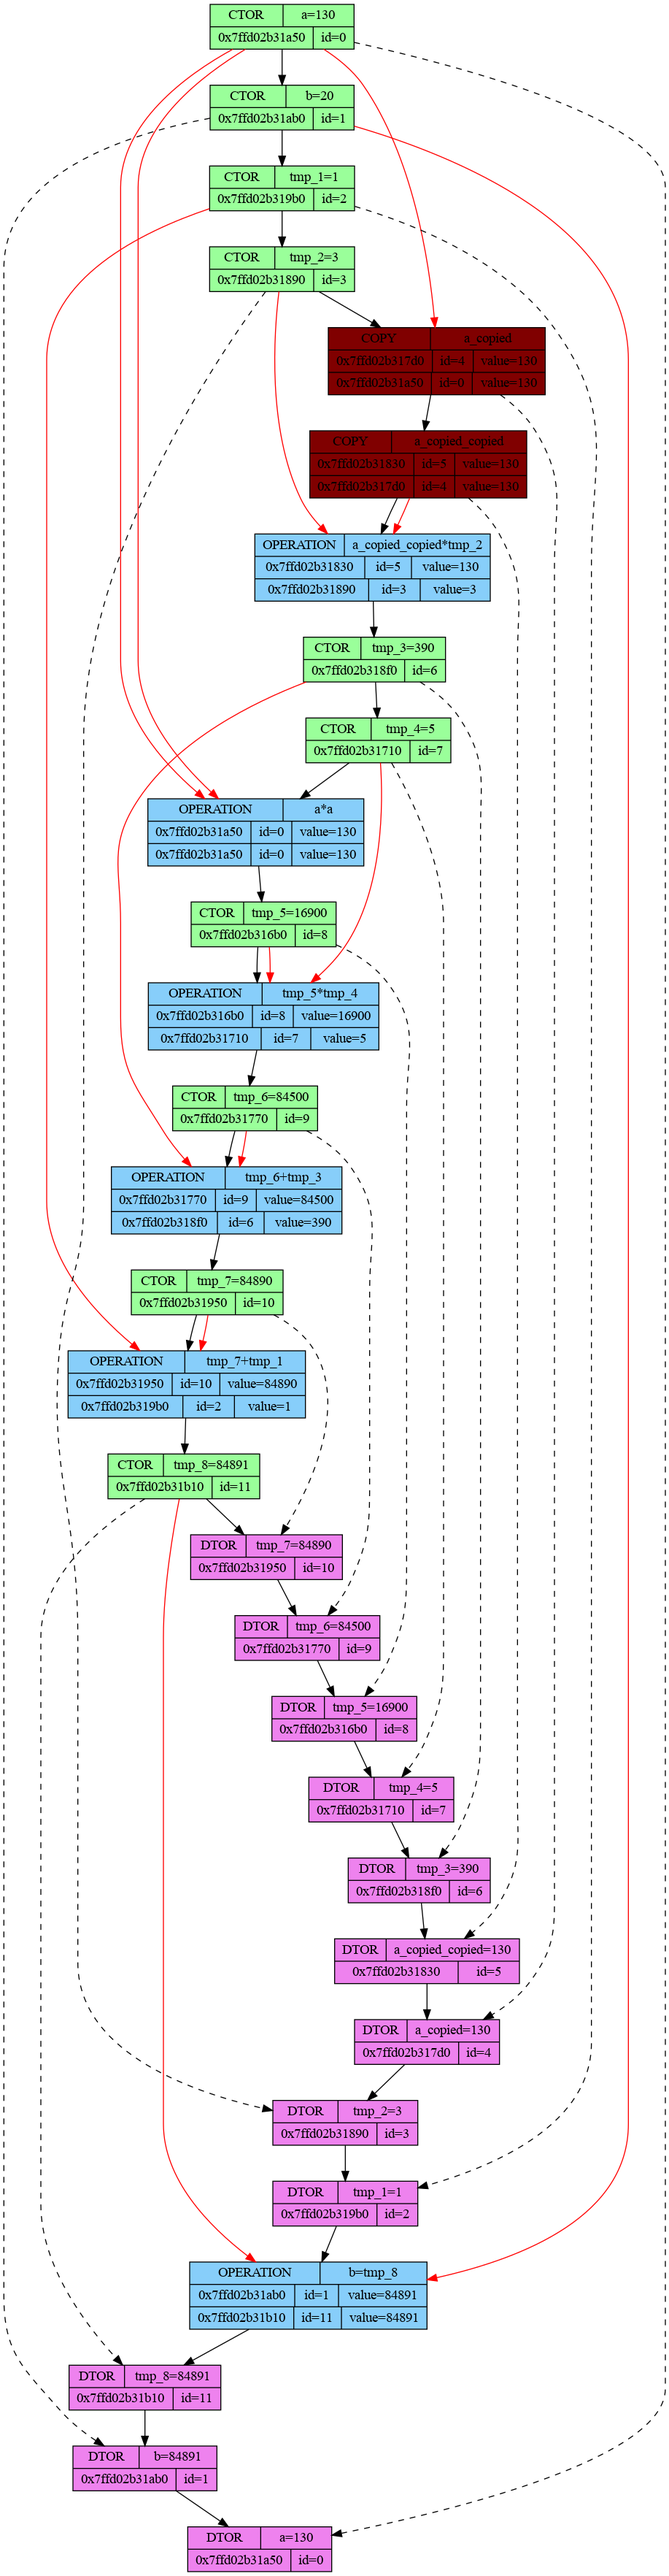
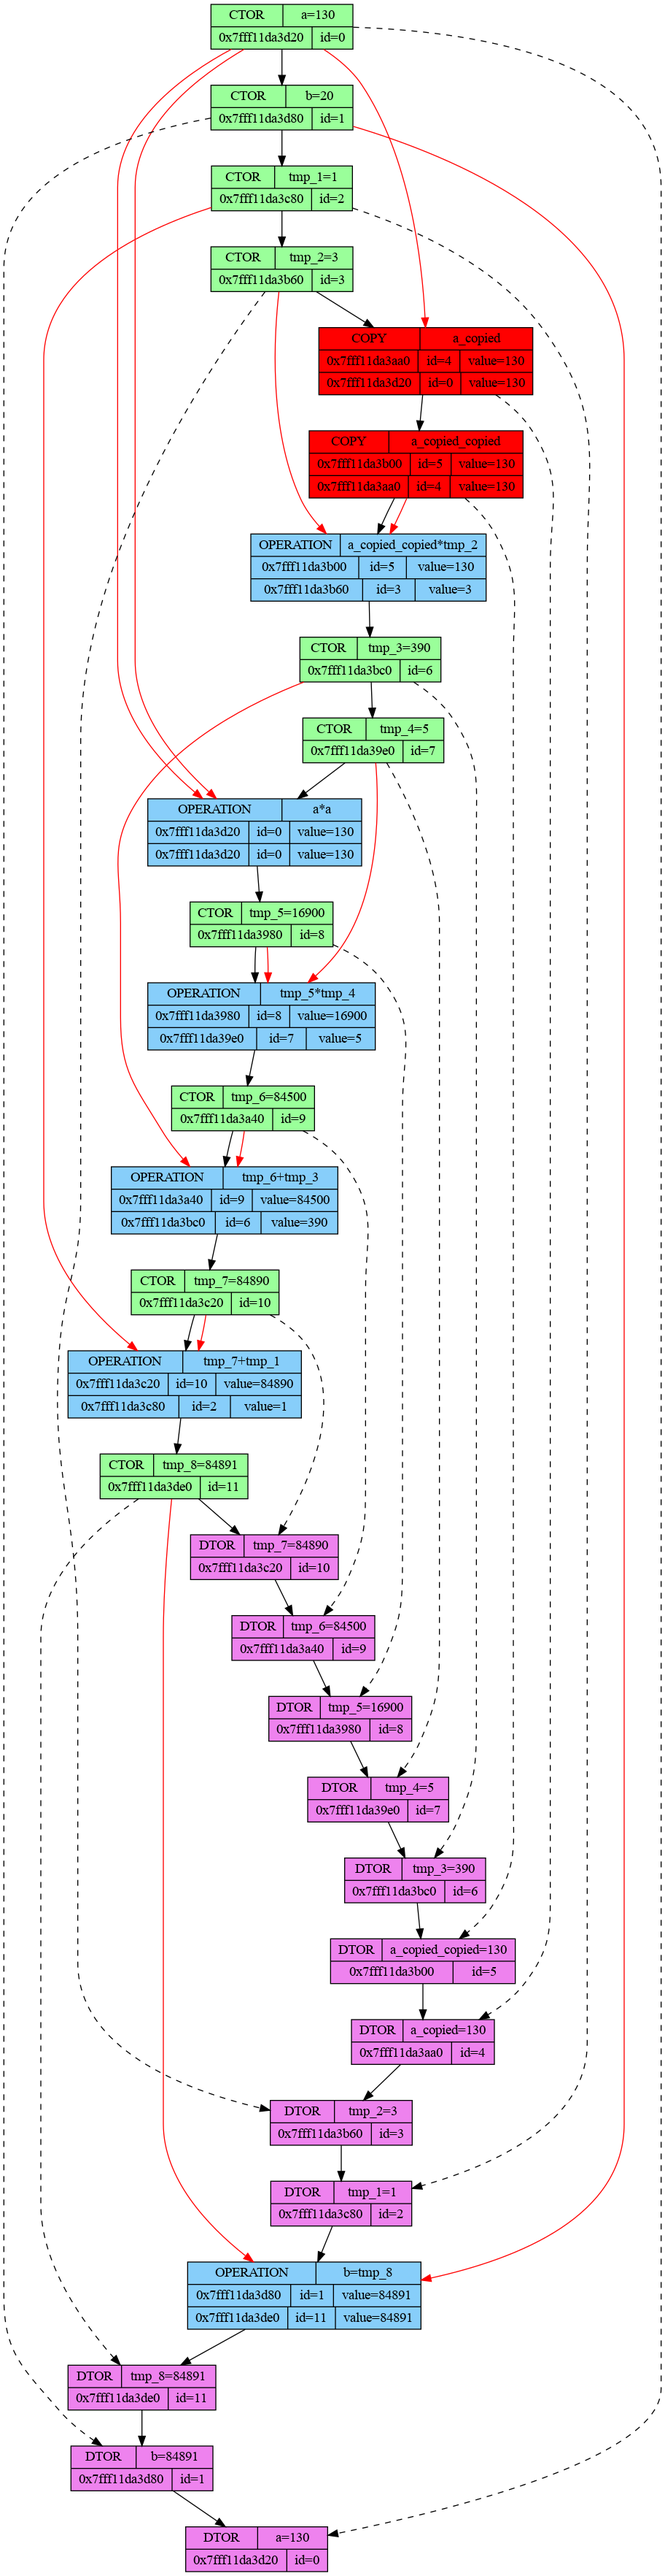
Updated pictures

diff --git a/Dumping_int/dump.html b/Dumping_int/dump.html
@@ -9,197 +9,197 @@ P {
 
 <p><font size="3" color="green">[Calling_trace] CTOR Int::Int(int, std::string)
 </font>
-	<font size="3" color="green">└──>[0x7ffd02b31a50]: id = 0, a=130
+	<font size="3" color="green">└──>[0x7fff11da3d20]: id = 0, a=130
 </font>
 <font size="3" color="green">
 </font>
 <font size="3" color="green">[Calling_trace] CTOR Int::Int(int, std::string)
 </font>
-	<font size="3" color="green">└──>[0x7ffd02b31ab0]: id = 1, b=20
+	<font size="3" color="green">└──>[0x7fff11da3d80]: id = 1, b=20
 </font>
 <font size="3" color="green">
 </font>
 <font size="3" color="green">[Calling_trace] CTOR Int::Int(int, std::string)
 </font>
-	<font size="3" color="green">└──>[0x7ffd02b319b0]: id = 2, tmp_1=1
+	<font size="3" color="green">└──>[0x7fff11da3c80]: id = 2, tmp_1=1
 </font>
 <font size="3" color="green">
 </font>
 <font size="3" color="green">[Calling_trace] CTOR Int::Int(int, std::string)
 </font>
-	<font size="3" color="green">└──>[0x7ffd02b31890]: id = 3, tmp_2=3
+	<font size="3" color="green">└──>[0x7fff11da3b60]: id = 3, tmp_2=3
 </font>
 <font size="3" color="green">
 </font>
 <font size="3" color="red">[Calling_trace] COPY Int::Int(const Int&)
 </font>
-	<font size="3" color="red">└──>[0x7ffd02b317d0]: left  id = 4, a_copied=130
+	<font size="3" color="red">└──>[0x7fff11da3aa0]: left  id = 4, a_copied=130
 </font>
-	<font size="3" color="red">└──>[0x7ffd02b31a50]: right id = 0, a=130
+	<font size="3" color="red">└──>[0x7fff11da3d20]: right id = 0, a=130
 </font>
 <font size="3" color="red">
 </font>
 <font size="3" color="red">[Calling_trace] COPY Int::Int(const Int&)
 </font>
-	<font size="3" color="red">└──>[0x7ffd02b31830]: left  id = 5, a_copied_copied=130
+	<font size="3" color="red">└──>[0x7fff11da3b00]: left  id = 5, a_copied_copied=130
 </font>
-	<font size="3" color="red">└──>[0x7ffd02b317d0]: right id = 4, a_copied=130
+	<font size="3" color="red">└──>[0x7fff11da3aa0]: right id = 4, a_copied=130
 </font>
 <font size="3" color="red">
 </font>
 <font size="3" color="darkcyan">[Calling_trace] OPERATION const Int Int::operator*(const Int&) const
 </font>
-	<font size="3" color="darkcyan">└──>[0x7ffd02b31830]: left  id = 5, a_copied_copied=130
+	<font size="3" color="darkcyan">└──>[0x7fff11da3b00]: left  id = 5, a_copied_copied=130
 </font>
-	<font size="3" color="darkcyan">└──>[0x7ffd02b31890]: right id = 3, tmp_2=3
+	<font size="3" color="darkcyan">└──>[0x7fff11da3b60]: right id = 3, tmp_2=3
 </font>
 <font size="3" color="darkcyan">
 </font>
 	<font size="3" color="green">[Calling_trace] CTOR Int::Int(int, std::string)
 </font>
-		<font size="3" color="green">└──>[0x7ffd02b318f0]: id = 6, tmp_3=390
+		<font size="3" color="green">└──>[0x7fff11da3bc0]: id = 6, tmp_3=390
 </font>
 <font size="3" color="green">
 </font>
 <font size="3" color="green">[Calling_trace] CTOR Int::Int(int, std::string)
 </font>
-	<font size="3" color="green">└──>[0x7ffd02b31710]: id = 7, tmp_4=5
+	<font size="3" color="green">└──>[0x7fff11da39e0]: id = 7, tmp_4=5
 </font>
 <font size="3" color="green">
 </font>
 <font size="3" color="darkcyan">[Calling_trace] OPERATION const Int Int::operator*(const Int&) const
 </font>
-	<font size="3" color="darkcyan">└──>[0x7ffd02b31a50]: left  id = 0, a=130
+	<font size="3" color="darkcyan">└──>[0x7fff11da3d20]: left  id = 0, a=130
 </font>
-	<font size="3" color="darkcyan">└──>[0x7ffd02b31a50]: right id = 0, a=130
+	<font size="3" color="darkcyan">└──>[0x7fff11da3d20]: right id = 0, a=130
 </font>
 <font size="3" color="darkcyan">
 </font>
 	<font size="3" color="green">[Calling_trace] CTOR Int::Int(int, std::string)
 </font>
-		<font size="3" color="green">└──>[0x7ffd02b316b0]: id = 8, tmp_5=16900
+		<font size="3" color="green">└──>[0x7fff11da3980]: id = 8, tmp_5=16900
 </font>
 <font size="3" color="green">
 </font>
 <font size="3" color="darkcyan">[Calling_trace] OPERATION const Int Int::operator*(const Int&) const
 </font>
-	<font size="3" color="darkcyan">└──>[0x7ffd02b316b0]: left  id = 8, tmp_5=16900
+	<font size="3" color="darkcyan">└──>[0x7fff11da3980]: left  id = 8, tmp_5=16900
 </font>
-	<font size="3" color="darkcyan">└──>[0x7ffd02b31710]: right id = 7, tmp_4=5
+	<font size="3" color="darkcyan">└──>[0x7fff11da39e0]: right id = 7, tmp_4=5
 </font>
 <font size="3" color="darkcyan">
 </font>
 	<font size="3" color="green">[Calling_trace] CTOR Int::Int(int, std::string)
 </font>
-		<font size="3" color="green">└──>[0x7ffd02b31770]: id = 9, tmp_6=84500
+		<font size="3" color="green">└──>[0x7fff11da3a40]: id = 9, tmp_6=84500
 </font>
 <font size="3" color="green">
 </font>
 <font size="3" color="darkcyan">[Calling_trace] OPERATION const Int Int::operator+(const Int&) const
 </font>
-	<font size="3" color="darkcyan">└──>[0x7ffd02b31770]: left  id = 9, tmp_6=84500
+	<font size="3" color="darkcyan">└──>[0x7fff11da3a40]: left  id = 9, tmp_6=84500
 </font>
-	<font size="3" color="darkcyan">└──>[0x7ffd02b318f0]: right id = 6, tmp_3=390
+	<font size="3" color="darkcyan">└──>[0x7fff11da3bc0]: right id = 6, tmp_3=390
 </font>
 <font size="3" color="darkcyan">
 </font>
 	<font size="3" color="green">[Calling_trace] CTOR Int::Int(int, std::string)
 </font>
-		<font size="3" color="green">└──>[0x7ffd02b31950]: id = 10, tmp_7=84890
+		<font size="3" color="green">└──>[0x7fff11da3c20]: id = 10, tmp_7=84890
 </font>
 <font size="3" color="green">
 </font>
 <font size="3" color="darkcyan">[Calling_trace] OPERATION const Int Int::operator+(const Int&) const
 </font>
-	<font size="3" color="darkcyan">└──>[0x7ffd02b31950]: left  id = 10, tmp_7=84890
+	<font size="3" color="darkcyan">└──>[0x7fff11da3c20]: left  id = 10, tmp_7=84890
 </font>
-	<font size="3" color="darkcyan">└──>[0x7ffd02b319b0]: right id = 2, tmp_1=1
+	<font size="3" color="darkcyan">└──>[0x7fff11da3c80]: right id = 2, tmp_1=1
 </font>
 <font size="3" color="darkcyan">
 </font>
 	<font size="3" color="green">[Calling_trace] CTOR Int::Int(int, std::string)
 </font>
-		<font size="3" color="green">└──>[0x7ffd02b31b10]: id = 11, tmp_8=84891
+		<font size="3" color="green">└──>[0x7fff11da3de0]: id = 11, tmp_8=84891
 </font>
 <font size="3" color="green">
 </font>
 <font size="3" color="purple">[Calling_trace] DTOR Int::~Int()
 </font>
-	<font size="3" color="purple">└──>[0x7ffd02b31950]: id = 10, tmp_7=84890
+	<font size="3" color="purple">└──>[0x7fff11da3c20]: id = 10, tmp_7=84890
 </font>
 <font size="3" color="purple">
 </font>
 <font size="3" color="purple">[Calling_trace] DTOR Int::~Int()
 </font>
-	<font size="3" color="purple">└──>[0x7ffd02b31770]: id = 9, tmp_6=84500
+	<font size="3" color="purple">└──>[0x7fff11da3a40]: id = 9, tmp_6=84500
 </font>
 <font size="3" color="purple">
 </font>
 <font size="3" color="purple">[Calling_trace] DTOR Int::~Int()
 </font>
-	<font size="3" color="purple">└──>[0x7ffd02b316b0]: id = 8, tmp_5=16900
+	<font size="3" color="purple">└──>[0x7fff11da3980]: id = 8, tmp_5=16900
 </font>
 <font size="3" color="purple">
 </font>
 <font size="3" color="purple">[Calling_trace] DTOR Int::~Int()
 </font>
-	<font size="3" color="purple">└──>[0x7ffd02b31710]: id = 7, tmp_4=5
+	<font size="3" color="purple">└──>[0x7fff11da39e0]: id = 7, tmp_4=5
 </font>
 <font size="3" color="purple">
 </font>
 <font size="3" color="purple">[Calling_trace] DTOR Int::~Int()
 </font>
-	<font size="3" color="purple">└──>[0x7ffd02b318f0]: id = 6, tmp_3=390
+	<font size="3" color="purple">└──>[0x7fff11da3bc0]: id = 6, tmp_3=390
 </font>
 <font size="3" color="purple">
 </font>
 <font size="3" color="purple">[Calling_trace] DTOR Int::~Int()
 </font>
-	<font size="3" color="purple">└──>[0x7ffd02b31830]: id = 5, a_copied_copied=130
+	<font size="3" color="purple">└──>[0x7fff11da3b00]: id = 5, a_copied_copied=130
 </font>
 <font size="3" color="purple">
 </font>
 <font size="3" color="purple">[Calling_trace] DTOR Int::~Int()
 </font>
-	<font size="3" color="purple">└──>[0x7ffd02b317d0]: id = 4, a_copied=130
+	<font size="3" color="purple">└──>[0x7fff11da3aa0]: id = 4, a_copied=130
 </font>
 <font size="3" color="purple">
 </font>
 <font size="3" color="purple">[Calling_trace] DTOR Int::~Int()
 </font>
-	<font size="3" color="purple">└──>[0x7ffd02b31890]: id = 3, tmp_2=3
+	<font size="3" color="purple">└──>[0x7fff11da3b60]: id = 3, tmp_2=3
 </font>
 <font size="3" color="purple">
 </font>
 <font size="3" color="purple">[Calling_trace] DTOR Int::~Int()
 </font>
-	<font size="3" color="purple">└──>[0x7ffd02b319b0]: id = 2, tmp_1=1
+	<font size="3" color="purple">└──>[0x7fff11da3c80]: id = 2, tmp_1=1
 </font>
 <font size="3" color="purple">
 </font>
 <font size="3" color="darkcyan">[Calling_trace] OPERATION Int& Int::operator=(const Int&)
 </font>
-	<font size="3" color="darkcyan">└──>[0x7ffd02b31ab0]: from id = 1, b=84891
+	<font size="3" color="darkcyan">└──>[0x7fff11da3d80]: from id = 1, b=84891
 </font>
-	<font size="3" color="darkcyan">└──>[0x7ffd02b31b10]: to   id = 11, tmp_8=84891
+	<font size="3" color="darkcyan">└──>[0x7fff11da3de0]: to   id = 11, tmp_8=84891
 </font>
 <font size="3" color="darkcyan">
 </font>
 <font size="3" color="purple">[Calling_trace] DTOR Int::~Int()
 </font>
-	<font size="3" color="purple">└──>[0x7ffd02b31b10]: id = 11, tmp_8=84891
+	<font size="3" color="purple">└──>[0x7fff11da3de0]: id = 11, tmp_8=84891
 </font>
 <font size="3" color="purple">
 </font>
 <font size="3" color="purple">[Calling_trace] DTOR Int::~Int()
 </font>
-	<font size="3" color="purple">└──>[0x7ffd02b31ab0]: id = 1, b=84891
+	<font size="3" color="purple">└──>[0x7fff11da3d80]: id = 1, b=84891
 </font>
 <font size="3" color="purple">
 </font>
 <font size="3" color="purple">[Calling_trace] DTOR Int::~Int()
 </font>
-	<font size="3" color="purple">└──>[0x7ffd02b31a50]: id = 0, a=130
+	<font size="3" color="purple">└──>[0x7fff11da3d20]: id = 0, a=130
 </font>
 <font size="3" color="purple">
 </font>

diff --git a/Dumping_int/Dumper/int_dumping.h b/Dumping_int/Dumper/int_dumping.h
@@ -47,7 +47,6 @@ class Dumper : public Signals_default_handler {
 	}
 
 	~Dumper() {
-		printf("[Dumper] delete graph_dumper\n");
 		delete tracer_functions;
 		delete graph_dumper;
 		delete html_dumper;

diff --git a/Dumping_int/Tools/console_colours.cpp b/Dumping_int/Tools/console_colours.cpp
@@ -32,7 +32,7 @@ const char* colours_text[] = {
 		"white",
 
 		"grey10",
-		"webmaroon",
+		"red",
 		"palegreen1",
 		"gold",
 		"deepskyblue2",

diff --git a/Dumping_int/README.md b/Dumping_int/README.md
@@ -1,4 +1,5 @@
 
+## Small study on copying variables 
 This project provides code for the Int class that implements an integer, as well as a set of tools for tracking the behavior of various operations on objects. All actions with this object (summation, subtraction, multiplication, division, assignment, and many others) are recorded, then written to the terminal, to an html file, and also presented as a graph
 
 Let's look at this simple example: 
@@ -6,7 +7,7 @@ Let's look at this simple example:
 	VAR(Int, a, 10);
 	VAR(Int, b, 20);
 ```
-![Examples1](https://github.com/owl1234/MIPT_projects_4_sem/blob/master/Dumping_int/Examples/picture1.png)
+![Examples1](https://github.com/x-ENIAC/MIPT_projects_4_sem/blob/master/Dumping_int/Examples/picture1.png)
 
 Here two variables a=10 and b=20 are created using the VAR macro. In the picture you see four rectangles. Green boxes mean that the variable's constructor has been called, while pink boxes indicate that the variable's destructor has been called. The black solid lines show the order in which the commands are executed. Dashed lines connect the constructor and destructor of the same variable. The red lines show which variables are involved in this operation. 
 
@@ -18,7 +19,7 @@ This picture is simple. Two variables are built, two are destroyed. Let's take a
 
 	c = a + b;
 ```
-![Examples2](https://github.com/owl1234/MIPT_projects_4_sem/blob/master/Dumping_int/Examples/picture2.png)
+![Examples2](https://github.com/x-ENIAC/MIPT_projects_4_sem/blob/master/Dumping_int/Examples/picture2.png)
 
 Operators are marked in blue. Three constructors are called first; then the operation takes place and the result is assigned to the **temporary variable**, which in turn is assigned to c. The summation operator calls the constructor and creates a temporary object.
 
@@ -40,11 +41,11 @@ void testing() {
 
 The first way is to pass the function object by value, the second way is to pass by reference.
 
-![Examples3](https://github.com/owl1234/MIPT_projects_4_sem/blob/master/Dumping_int/Examples/picture3.png)
+| Pass by value | Pass by reference  |
+|----------------|:---------:|
+| ![Examples3](https://github.com/x-ENIAC/MIPT_projects_4_sem/blob/master/Dumping_int/Examples/picture3.png) | ![Examples4](https://github.com/x-ENIAC/MIPT_projects_4_sem/blob/master/Dumping_int/Examples/picture4.png) |
 
-![Examples4](https://github.com/owl1234/MIPT_projects_4_sem/blob/master/Dumping_int/Examples/picture4.png)
-
-Wow! By passing by reference, we prevented two extra copies. Adorably!
+Wow! By passing by reference, we prevented two extra **copies**. Adorably!
 
 Well, this is the last example. Beware, very large chart. 
 
@@ -65,5 +66,6 @@ void testing() {
 }
 ```
 
-![Examples4](https://github.com/owl1234/MIPT_projects_4_sem/blob/master/Dumping_int/Examples/picture5.png)
+![Examples4](https://github.com/x-ENIAC/MIPT_projects_4_sem/blob/master/Dumping_int/Examples/picture5.png)
+
 
